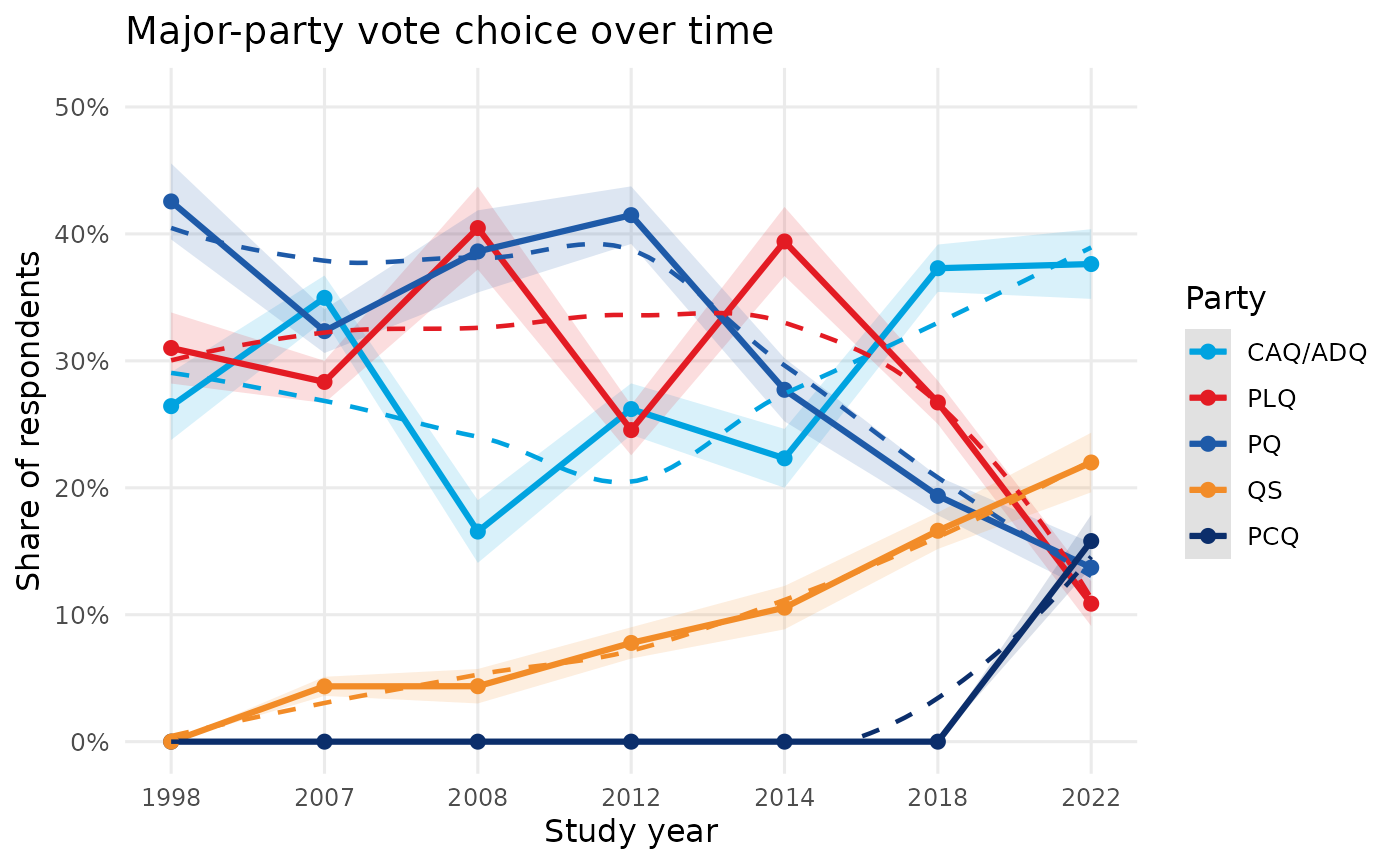
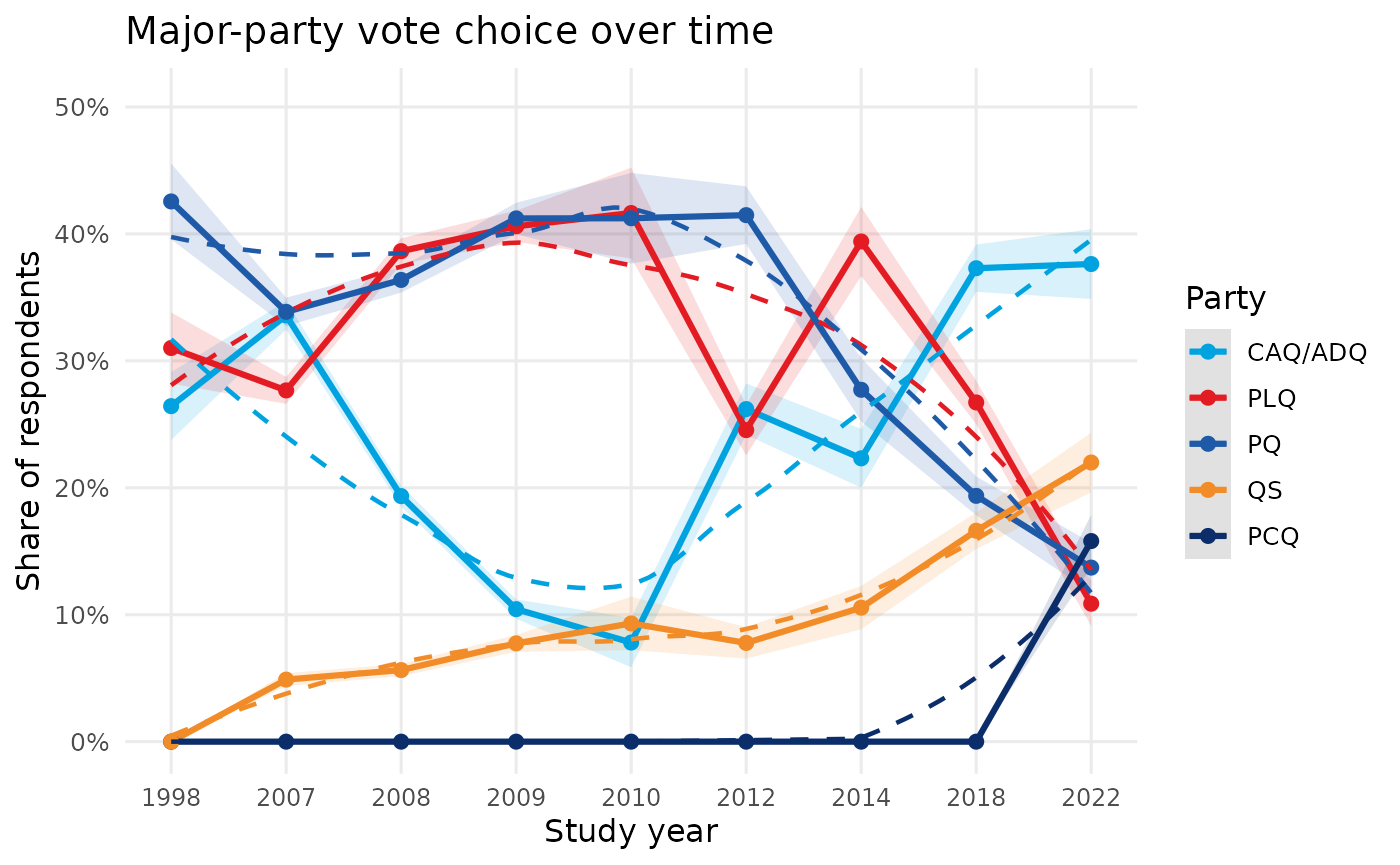
deploy: 78df18d0dc8932c3fd62d4c5228fa271548432f8

diff --git a/articles/fr-analyse-choix-vote.html b/articles/fr-analyse-choix-vote.html
@@ -122,9 +122,10 @@ Afficher le code utilisé dans cette page
 <span><span class="kw"><a href="https://rdrr.io/r/base/library.html" class="external-link">library</a></span><span class="op">(</span><span class="va"><a href="https://ggplot2.tidyverse.org" class="external-link">ggplot2</a></span><span class="op">)</span></span>
 <span><span class="kw"><a href="https://rdrr.io/r/base/library.html" class="external-link">library</a></span><span class="op">(</span><span class="va"><a href="https://yihui.org/knitr/" class="external-link">knitr</a></span><span class="op">)</span></span>
 <span></span>
-<span><span class="va">master</span> <span class="op">&lt;-</span> <span class="fu"><a href="../reference/get_qes_master.html">get_qes_master</a></span><span class="op">(</span>assign_global <span class="op">=</span> <span class="cn">FALSE</span>, strict <span class="op">=</span> <span class="cn">FALSE</span>, quiet <span class="op">=</span> <span class="cn">TRUE</span><span class="op">)</span> <span class="op"><a href="https://magrittr.tidyverse.org/reference/pipe.html" class="external-link">%&gt;%</a></span></span>
+<span><span class="va">master_paths</span> <span class="op">&lt;-</span> <span class="fu"><a href="https://rdrr.io/r/base/c.html" class="external-link">c</a></span><span class="op">(</span><span class="st">"qes_master.csv"</span>, <span class="st">"../qes_master.csv"</span><span class="op">)</span></span>
+<span><span class="va">master</span> <span class="op">&lt;-</span> <span class="fu"><a href="https://rdrr.io/r/utils/read.table.html" class="external-link">read.csv</a></span><span class="op">(</span><span class="va">master_paths</span><span class="op">[</span><span class="fu"><a href="https://rdrr.io/r/base/files.html" class="external-link">file.exists</a></span><span class="op">(</span><span class="va">master_paths</span><span class="op">)</span><span class="op">]</span><span class="op">[</span><span class="fl">1</span><span class="op">]</span>, stringsAsFactors <span class="op">=</span> <span class="cn">FALSE</span><span class="op">)</span> <span class="op"><a href="https://magrittr.tidyverse.org/reference/pipe.html" class="external-link">%&gt;%</a></span></span>
 <span>  <span class="fu"><a href="https://dplyr.tidyverse.org/reference/mutate.html" class="external-link">mutate</a></span><span class="op">(</span></span>
-<span>    annee <span class="op">=</span> <span class="fu"><a href="https://rdrr.io/r/base/integer.html" class="external-link">as.integer</a></span><span class="op">(</span><span class="fu"><a href="https://rdrr.io/r/base/grep.html" class="external-link">sub</a></span><span class="op">(</span><span class="st">"^([0-9]{4}).*$"</span>, <span class="st">"\\1"</span>, <span class="va">qes_year</span><span class="op">)</span><span class="op">)</span>,</span>
+<span>    annee <span class="op">=</span> <span class="fu"><a href="https://rdrr.io/r/base/integer.html" class="external-link">as.integer</a></span><span class="op">(</span><span class="fu"><a href="https://rdrr.io/r/base/substr.html" class="external-link">substr</a></span><span class="op">(</span><span class="fu"><a href="https://rdrr.io/r/base/character.html" class="external-link">as.character</a></span><span class="op">(</span><span class="va">qes_year</span><span class="op">)</span>, <span class="fl">1</span>, <span class="fl">4</span><span class="op">)</span><span class="op">)</span>,</span>
 <span>    vote_choice_brut <span class="op">=</span> <span class="fu"><a href="https://rdrr.io/r/base/trimws.html" class="external-link">trimws</a></span><span class="op">(</span><span class="fu"><a href="https://rdrr.io/r/base/character.html" class="external-link">as.character</a></span><span class="op">(</span><span class="va">vote_choice</span><span class="op">)</span><span class="op">)</span>,</span>
 <span>    choix_vote_parti <span class="op">=</span> <span class="fu">dplyr</span><span class="fu">::</span><span class="fu"><a href="https://dplyr.tidyverse.org/reference/case-and-replace-when.html" class="external-link">case_when</a></span><span class="op">(</span></span>
 <span>      <span class="va">vote_choice_brut</span> <span class="op"><a href="https://rdrr.io/r/base/match.html" class="external-link">%in%</a></span> <span class="fu"><a href="https://rdrr.io/r/base/c.html" class="external-link">c</a></span><span class="op">(</span><span class="st">"CAQ"</span>, <span class="st">"ADQ"</span><span class="op">)</span> <span class="op">~</span> <span class="st">"CAQ/ADQ"</span>,</span>
@@ -134,8 +135,7 @@ Afficher le code utilisé dans cette page
 <span>      <span class="va">vote_choice_brut</span> <span class="op">==</span> <span class="st">"PCQ"</span> <span class="op">~</span> <span class="st">"PCQ"</span>,</span>
 <span>      <span class="cn">TRUE</span> <span class="op">~</span> <span class="cn">NA_character_</span></span>
 <span>    <span class="op">)</span></span>
-<span>  <span class="op">)</span> <span class="op"><a href="https://magrittr.tidyverse.org/reference/pipe.html" class="external-link">%&gt;%</a></span></span>
-<span>  <span class="fu"><a href="https://dplyr.tidyverse.org/reference/filter.html" class="external-link">filter</a></span><span class="op">(</span><span class="va">qes_code</span> <span class="op">!=</span> <span class="st">"qes_crop_2007_2010"</span><span class="op">)</span></span>
+<span>  <span class="op">)</span></span>
 <span></span>
 <span><span class="va">partis_majeurs</span> <span class="op">&lt;-</span> <span class="fu"><a href="https://rdrr.io/r/base/c.html" class="external-link">c</a></span><span class="op">(</span><span class="st">"CAQ/ADQ"</span>, <span class="st">"PLQ"</span>, <span class="st">"PQ"</span>, <span class="st">"QS"</span>, <span class="st">"PCQ"</span><span class="op">)</span></span>
 <span></span>
@@ -241,20 +241,38 @@ annee</caption>
 </tr>
 <tr class="even">
 <td align="right">2007</td>
-<td align="right">2823</td>
-<td align="right">35.0</td>
-<td align="right">28.3</td>
-<td align="right">32.3</td>
-<td align="right">4.4</td>
+<td align="right">6852</td>
+<td align="right">33.6</td>
+<td align="right">27.7</td>
+<td align="right">33.9</td>
+<td align="right">4.9</td>
 <td align="right">0.0</td>
 </tr>
 <tr class="odd">
 <td align="right">2008</td>
-<td align="right">870</td>
-<td align="right">16.6</td>
-<td align="right">40.5</td>
+<td align="right">8902</td>
+<td align="right">19.3</td>
 <td align="right">38.6</td>
-<td align="right">4.4</td>
+<td align="right">36.4</td>
+<td align="right">5.6</td>
+<td align="right">0.0</td>
+</tr>
+<tr class="even">
+<td align="right">2009</td>
+<td align="right">6121</td>
+<td align="right">10.4</td>
+<td align="right">40.6</td>
+<td align="right">41.2</td>
+<td align="right">7.7</td>
+<td align="right">0.0</td>
+</tr>
+<tr class="odd">
+<td align="right">2010</td>
+<td align="right">730</td>
+<td align="right">7.8</td>
+<td align="right">41.6</td>
+<td align="right">41.2</td>
+<td align="right">9.3</td>
 <td align="right">0.0</td>
 </tr>
 <tr class="even">
@@ -307,6 +325,9 @@ annee</caption>
 <ul>
 <li>Les parts utilisent les répondants avec une valeur non manquante de
 <code>vote_choice</code>.</li>
+<li>Les années 2009 et 2010 proviennent de
+<code>qes_crop_2007_2010</code> après ventilation par année de
+collecte.</li>
 <li>Les intervalles de confiance sont des IC95 binomiaux (approximation
 normale).</li>
 <li>La figure est limitée à la CAQ/ADQ, au PLQ, au PQ, à QS et au

diff --git a/articles/analysis-vote-choice.html b/articles/analysis-vote-choice.html
@@ -126,7 +126,7 @@ Show code used in this page
 <span></span>
 <span><span class="va">master</span> <span class="op">&lt;-</span> <span class="va">master</span> <span class="op"><a href="https://magrittr.tidyverse.org/reference/pipe.html" class="external-link">%&gt;%</a></span></span>
 <span>  <span class="fu"><a href="https://dplyr.tidyverse.org/reference/mutate.html" class="external-link">mutate</a></span><span class="op">(</span></span>
-<span>    qes_year_num <span class="op">=</span> <span class="fu"><a href="https://rdrr.io/r/base/integer.html" class="external-link">as.integer</a></span><span class="op">(</span><span class="fu"><a href="https://rdrr.io/r/base/grep.html" class="external-link">sub</a></span><span class="op">(</span><span class="st">"^([0-9]{4}).*$"</span>, <span class="st">"\\1"</span>, <span class="va">qes_year</span><span class="op">)</span><span class="op">)</span>,</span>
+<span>    qes_year_num <span class="op">=</span> <span class="fu"><a href="https://rdrr.io/r/base/integer.html" class="external-link">as.integer</a></span><span class="op">(</span><span class="fu"><a href="https://rdrr.io/r/base/substr.html" class="external-link">substr</a></span><span class="op">(</span><span class="fu"><a href="https://rdrr.io/r/base/character.html" class="external-link">as.character</a></span><span class="op">(</span><span class="va">qes_year</span><span class="op">)</span>, <span class="fl">1</span>, <span class="fl">4</span><span class="op">)</span><span class="op">)</span>,</span>
 <span>    vote_choice_raw <span class="op">=</span> <span class="fu"><a href="https://rdrr.io/r/base/trimws.html" class="external-link">trimws</a></span><span class="op">(</span><span class="fu"><a href="https://rdrr.io/r/base/character.html" class="external-link">as.character</a></span><span class="op">(</span><span class="va">vote_choice</span><span class="op">)</span><span class="op">)</span>,</span>
 <span>    vote_choice_party <span class="op">=</span> <span class="fu">dplyr</span><span class="fu">::</span><span class="fu"><a href="https://dplyr.tidyverse.org/reference/case-and-replace-when.html" class="external-link">case_when</a></span><span class="op">(</span></span>
 <span>      <span class="va">vote_choice_raw</span> <span class="op"><a href="https://rdrr.io/r/base/match.html" class="external-link">%in%</a></span> <span class="fu"><a href="https://rdrr.io/r/base/c.html" class="external-link">c</a></span><span class="op">(</span><span class="st">"CAQ"</span>, <span class="st">"ADQ"</span><span class="op">)</span> <span class="op">~</span> <span class="st">"CAQ/ADQ"</span>,</span>
@@ -136,8 +136,7 @@ Show code used in this page
 <span>      <span class="va">vote_choice_raw</span> <span class="op">==</span> <span class="st">"PCQ"</span> <span class="op">~</span> <span class="st">"PCQ"</span>,</span>
 <span>      <span class="cn">TRUE</span> <span class="op">~</span> <span class="cn">NA_character_</span></span>
 <span>    <span class="op">)</span></span>
-<span>  <span class="op">)</span> <span class="op"><a href="https://magrittr.tidyverse.org/reference/pipe.html" class="external-link">%&gt;%</a></span></span>
-<span>  <span class="fu"><a href="https://dplyr.tidyverse.org/reference/filter.html" class="external-link">filter</a></span><span class="op">(</span><span class="va">qes_code</span> <span class="op">!=</span> <span class="st">"qes_crop_2007_2010"</span><span class="op">)</span></span>
+<span>  <span class="op">)</span></span>
 <span></span>
 <span><span class="va">major_parties</span> <span class="op">&lt;-</span> <span class="fu"><a href="https://rdrr.io/r/base/c.html" class="external-link">c</a></span><span class="op">(</span><span class="st">"CAQ/ADQ"</span>, <span class="st">"PLQ"</span>, <span class="st">"PQ"</span>, <span class="st">"QS"</span>, <span class="st">"PCQ"</span><span class="op">)</span></span>
 <span><span class="va">years</span> <span class="op">&lt;-</span> <span class="fu"><a href="https://rdrr.io/r/base/sort.html" class="external-link">sort</a></span><span class="op">(</span><span class="fu"><a href="https://rdrr.io/r/base/unique.html" class="external-link">unique</a></span><span class="op">(</span><span class="va">master</span><span class="op">$</span><span class="va">qes_year_num</span><span class="op">[</span><span class="op">!</span><span class="fu"><a href="https://rdrr.io/r/base/NA.html" class="external-link">is.na</a></span><span class="op">(</span><span class="va">master</span><span class="op">$</span><span class="va">qes_year_num</span><span class="op">)</span><span class="op">]</span><span class="op">)</span><span class="op">)</span></span>
@@ -220,20 +219,38 @@ Show code used in this page
 </tr>
 <tr class="even">
 <td align="right">2007</td>
-<td align="right">2823</td>
-<td align="right">35.0</td>
-<td align="right">28.3</td>
-<td align="right">32.3</td>
-<td align="right">4.4</td>
+<td align="right">6852</td>
+<td align="right">33.6</td>
+<td align="right">27.7</td>
+<td align="right">33.9</td>
+<td align="right">4.9</td>
 <td align="right">0.0</td>
 </tr>
 <tr class="odd">
 <td align="right">2008</td>
-<td align="right">870</td>
-<td align="right">16.6</td>
-<td align="right">40.5</td>
+<td align="right">8902</td>
+<td align="right">19.3</td>
 <td align="right">38.6</td>
-<td align="right">4.4</td>
+<td align="right">36.4</td>
+<td align="right">5.6</td>
+<td align="right">0.0</td>
+</tr>
+<tr class="even">
+<td align="right">2009</td>
+<td align="right">6121</td>
+<td align="right">10.4</td>
+<td align="right">40.6</td>
+<td align="right">41.2</td>
+<td align="right">7.7</td>
+<td align="right">0.0</td>
+</tr>
+<tr class="odd">
+<td align="right">2010</td>
+<td align="right">730</td>
+<td align="right">7.8</td>
+<td align="right">41.6</td>
+<td align="right">41.2</td>
+<td align="right">9.3</td>
 <td align="right">0.0</td>
 </tr>
 <tr class="even">
@@ -286,6 +303,8 @@ Show code used in this page
 <ul>
 <li>Shares use respondents with a non-missing <code>vote_choice</code>
 value.</li>
+<li>Years 2009 and 2010 come from <code>qes_crop_2007_2010</code> after
+splitting by collection year.</li>
 <li>Confidence intervals are binomial 95% intervals (normal
 approximation).</li>
 <li>The trend figure is restricted to CAQ/ADQ, PLQ, PQ, QS, and

diff --git a/articles/fr-analyse-souverainete.html b/articles/fr-analyse-souverainete.html
@@ -129,7 +129,7 @@ Afficher le code utilise dans cette page
 <span><span class="va">master</span> <span class="op">&lt;-</span> <span class="va">master</span> <span class="op"><a href="https://magrittr.tidyverse.org/reference/pipe.html" class="external-link">%&gt;%</a></span></span>
 <span>  <span class="fu"><a href="https://dplyr.tidyverse.org/reference/mutate.html" class="external-link">mutate</a></span><span class="op">(</span></span>
 <span>    qes_year_chr <span class="op">=</span> <span class="fu"><a href="https://rdrr.io/r/base/trimws.html" class="external-link">trimws</a></span><span class="op">(</span><span class="fu"><a href="https://rdrr.io/r/base/character.html" class="external-link">as.character</a></span><span class="op">(</span><span class="va">qes_year</span><span class="op">)</span><span class="op">)</span>,</span>
-<span>    qes_year_num <span class="op">=</span> <span class="fu"><a href="https://rdrr.io/r/base/integer.html" class="external-link">as.integer</a></span><span class="op">(</span><span class="fu"><a href="https://rdrr.io/r/base/grep.html" class="external-link">sub</a></span><span class="op">(</span><span class="st">"^([0-9]{4}).*$"</span>, <span class="st">"\\1"</span>, <span class="va">qes_year_chr</span><span class="op">)</span><span class="op">)</span></span>
+<span>    qes_year_num <span class="op">=</span> <span class="fu"><a href="https://rdrr.io/r/base/integer.html" class="external-link">as.integer</a></span><span class="op">(</span><span class="fu"><a href="https://rdrr.io/r/base/substr.html" class="external-link">substr</a></span><span class="op">(</span><span class="va">qes_year_chr</span>, <span class="fl">1</span>, <span class="fl">4</span><span class="op">)</span><span class="op">)</span></span>
 <span>  <span class="op">)</span></span>
 <span></span>
 <span><span class="va">is_range</span> <span class="op">&lt;-</span> <span class="fu"><a href="https://rdrr.io/r/base/grep.html" class="external-link">grepl</a></span><span class="op">(</span><span class="st">"^[0-9]{4}-[0-9]{4}$"</span>, <span class="va">master</span><span class="op">$</span><span class="va">qes_year_chr</span><span class="op">)</span></span>

diff --git a/articles/analysis-sovereignty.html b/articles/analysis-sovereignty.html
@@ -129,7 +129,7 @@ Show code used in this page
 <span><span class="va">master</span> <span class="op">&lt;-</span> <span class="va">master</span> <span class="op"><a href="https://magrittr.tidyverse.org/reference/pipe.html" class="external-link">%&gt;%</a></span></span>
 <span>  <span class="fu"><a href="https://dplyr.tidyverse.org/reference/mutate.html" class="external-link">mutate</a></span><span class="op">(</span></span>
 <span>    qes_year_chr <span class="op">=</span> <span class="fu"><a href="https://rdrr.io/r/base/trimws.html" class="external-link">trimws</a></span><span class="op">(</span><span class="fu"><a href="https://rdrr.io/r/base/character.html" class="external-link">as.character</a></span><span class="op">(</span><span class="va">qes_year</span><span class="op">)</span><span class="op">)</span>,</span>
-<span>    qes_year_num <span class="op">=</span> <span class="fu"><a href="https://rdrr.io/r/base/integer.html" class="external-link">as.integer</a></span><span class="op">(</span><span class="fu"><a href="https://rdrr.io/r/base/grep.html" class="external-link">sub</a></span><span class="op">(</span><span class="st">"^([0-9]{4}).*$"</span>, <span class="st">"\\1"</span>, <span class="va">qes_year_chr</span><span class="op">)</span><span class="op">)</span></span>
+<span>    qes_year_num <span class="op">=</span> <span class="fu"><a href="https://rdrr.io/r/base/integer.html" class="external-link">as.integer</a></span><span class="op">(</span><span class="fu"><a href="https://rdrr.io/r/base/substr.html" class="external-link">substr</a></span><span class="op">(</span><span class="va">qes_year_chr</span>, <span class="fl">1</span>, <span class="fl">4</span><span class="op">)</span><span class="op">)</span></span>
 <span>  <span class="op">)</span></span>
 <span></span>
 <span><span class="va">is_range</span> <span class="op">&lt;-</span> <span class="fu"><a href="https://rdrr.io/r/base/grep.html" class="external-link">grepl</a></span><span class="op">(</span><span class="st">"^[0-9]{4}-[0-9]{4}$"</span>, <span class="va">master</span><span class="op">$</span><span class="va">qes_year_chr</span><span class="op">)</span></span>

diff --git a/articles/fr-analyse-choix-vote.md b/articles/fr-analyse-choix-vote.md
@@ -8,9 +8,10 @@ library(dplyr)
 library(ggplot2)
 library(knitr)
 
-master <- get_qes_master(assign_global = FALSE, strict = FALSE, quiet = TRUE) %>%
+master_paths <- c("qes_master.csv", "../qes_master.csv")
+master <- read.csv(master_paths[file.exists(master_paths)][1], stringsAsFactors = FALSE) %>%
   mutate(
-    annee = as.integer(sub("^([0-9]{4}).*$", "\\1", qes_year)),
+    annee = as.integer(substr(as.character(qes_year), 1, 4)),
     vote_choice_brut = trimws(as.character(vote_choice)),
     choix_vote_parti = dplyr::case_when(
       vote_choice_brut %in% c("CAQ", "ADQ") ~ "CAQ/ADQ",
@@ -20,8 +21,7 @@ master <- get_qes_master(assign_global = FALSE, strict = FALSE, quiet = TRUE) %>
       vote_choice_brut == "PCQ" ~ "PCQ",
       TRUE ~ NA_character_
     )
-  ) %>%
-  filter(qes_code != "qes_crop_2007_2010")
+  )
 
 partis_majeurs <- c("CAQ/ADQ", "PLQ", "PQ", "QS", "PCQ")
 
@@ -98,8 +98,10 @@ ggplot(vote_parti, aes(x = annee, y = part, color = choix_vote_parti, group = ch
 | Annee d’etude | N avec item choix de vote | CAQ/ADQ (%) | PLQ (%) | PQ (%) | QS (%) | PCQ (%) |
 |--------------:|--------------------------:|------------:|--------:|-------:|-------:|--------:|
 |          1998 |                      1048 |        26.4 |    31.0 |   42.6 |    0.0 |     0.0 |
-|          2007 |                      2823 |        35.0 |    28.3 |   32.3 |    4.4 |     0.0 |
-|          2008 |                       870 |        16.6 |    40.5 |   38.6 |    4.4 |     0.0 |
+|          2007 |                      6852 |        33.6 |    27.7 |   33.9 |    4.9 |     0.0 |
+|          2008 |                      8902 |        19.3 |    38.6 |   36.4 |    5.6 |     0.0 |
+|          2009 |                      6121 |        10.4 |    40.6 |   41.2 |    7.7 |     0.0 |
+|          2010 |                       730 |         7.8 |    41.6 |   41.2 |    9.3 |     0.0 |
 |          2012 |                      1813 |        26.2 |    24.5 |   41.5 |    7.8 |     0.0 |
 |          2014 |                      1241 |        22.3 |    39.4 |   27.7 |   10.6 |     0.0 |
 |          2018 |                      2582 |        37.3 |    26.7 |   19.4 |   16.6 |     0.0 |
@@ -117,6 +119,8 @@ l'annee.](fr-analyse-choix-vote_files/figure-html/unnamed-chunk-5-1.png)
 
 - Les parts utilisent les répondants avec une valeur non manquante de
   `vote_choice`.
+- Les années 2009 et 2010 proviennent de `qes_crop_2007_2010` après
+  ventilation par année de collecte.
 - Les intervalles de confiance sont des IC95 binomiaux (approximation
   normale).
 - La figure est limitée à la CAQ/ADQ, au PLQ, au PQ, à QS et au PCQ.

diff --git a/articles/analysis-vote-choice.md b/articles/analysis-vote-choice.md
@@ -12,7 +12,7 @@ master <- read.csv(master_paths[file.exists(master_paths)][1], stringsAsFactors 
 
 master <- master %>%
   mutate(
-    qes_year_num = as.integer(sub("^([0-9]{4}).*$", "\\1", qes_year)),
+    qes_year_num = as.integer(substr(as.character(qes_year), 1, 4)),
     vote_choice_raw = trimws(as.character(vote_choice)),
     vote_choice_party = dplyr::case_when(
       vote_choice_raw %in% c("CAQ", "ADQ") ~ "CAQ/ADQ",
@@ -22,8 +22,7 @@ master <- master %>%
       vote_choice_raw == "PCQ" ~ "PCQ",
       TRUE ~ NA_character_
     )
-  ) %>%
-  filter(qes_code != "qes_crop_2007_2010")
+  )
 
 major_parties <- c("CAQ/ADQ", "PLQ", "PQ", "QS", "PCQ")
 years <- sort(unique(master$qes_year_num[!is.na(master$qes_year_num)]))
@@ -78,8 +77,10 @@ knitr::kable(vote_table)
 | Study year | N with vote-choice item | CAQ/ADQ (%) | PLQ (%) | PQ (%) | QS (%) | PCQ (%) |
 |-----------:|------------------------:|------------:|--------:|-------:|-------:|--------:|
 |       1998 |                    1048 |        26.4 |    31.0 |   42.6 |    0.0 |     0.0 |
-|       2007 |                    2823 |        35.0 |    28.3 |   32.3 |    4.4 |     0.0 |
-|       2008 |                     870 |        16.6 |    40.5 |   38.6 |    4.4 |     0.0 |
+|       2007 |                    6852 |        33.6 |    27.7 |   33.9 |    4.9 |     0.0 |
+|       2008 |                    8902 |        19.3 |    38.6 |   36.4 |    5.6 |     0.0 |
+|       2009 |                    6121 |        10.4 |    40.6 |   41.2 |    7.7 |     0.0 |
+|       2010 |                     730 |         7.8 |    41.6 |   41.2 |    9.3 |     0.0 |
 |       2012 |                    1813 |        26.2 |    24.5 |   41.5 |    7.8 |     0.0 |
 |       2014 |                    1241 |        22.3 |    39.4 |   27.7 |   10.6 |     0.0 |
 |       2018 |                    2582 |        37.3 |    26.7 |   19.4 |   16.6 |     0.0 |
@@ -96,6 +97,8 @@ years.](analysis-vote-choice_files/figure-html/unnamed-chunk-5-1.png)
 ## Notes
 
 - Shares use respondents with a non-missing `vote_choice` value.
+- Years 2009 and 2010 come from `qes_crop_2007_2010` after splitting by
+  collection year.
 - Confidence intervals are binomial 95% intervals (normal
   approximation).
 - The trend figure is restricted to CAQ/ADQ, PLQ, PQ, QS, and PCQ.

diff --git a/articles/analysis-sovereignty.md b/articles/analysis-sovereignty.md
@@ -16,7 +16,7 @@ master <- read.csv(master_paths[file.exists(master_paths)][1], stringsAsFactors 
 master <- master %>%
   mutate(
     qes_year_chr = trimws(as.character(qes_year)),
-    qes_year_num = as.integer(sub("^([0-9]{4}).*$", "\\1", qes_year_chr))
+    qes_year_num = as.integer(substr(qes_year_chr, 1, 4))
   )
 
 is_range <- grepl("^[0-9]{4}-[0-9]{4}$", master$qes_year_chr)

diff --git a/articles/fr-analyse-souverainete.md b/articles/fr-analyse-souverainete.md
@@ -16,7 +16,7 @@ master <- read.csv(master_paths[file.exists(master_paths)][1], stringsAsFactors 
 master <- master %>%
   mutate(
     qes_year_chr = trimws(as.character(qes_year)),
-    qes_year_num = as.integer(sub("^([0-9]{4}).*$", "\\1", qes_year_chr))
+    qes_year_num = as.integer(substr(qes_year_chr, 1, 4))
   )
 
 is_range <- grepl("^[0-9]{4}-[0-9]{4}$", master$qes_year_chr)
